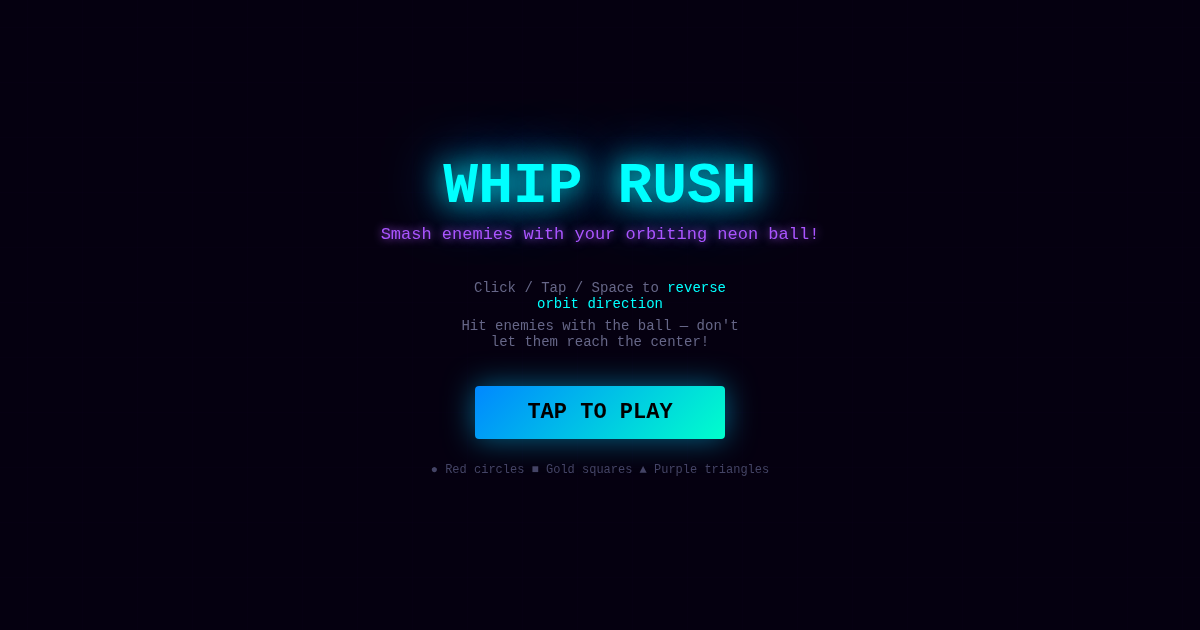
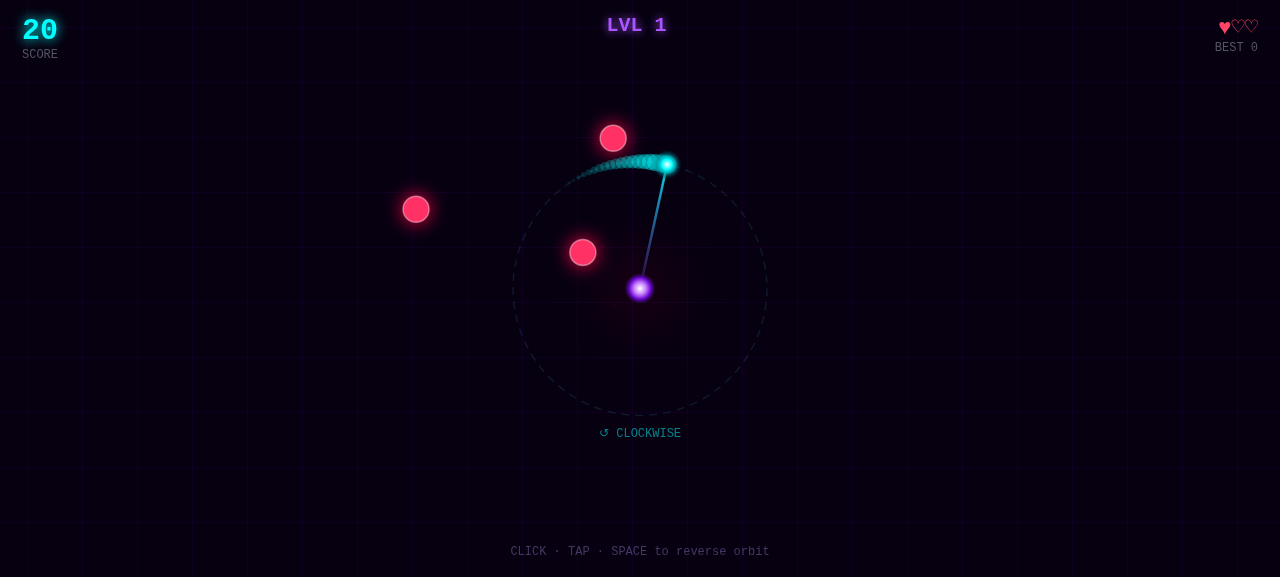
fix: repair Whip Rush unplayable bug and stabilise parallel tests
Whip Rush (2026-05-05): handleInput returned early with `if (!s) return`
when stateRef.current was null on the first click, so the game could
never be started.  Merged the null guard into the start/gameover branch
so any click on the initial screen correctly calls initState().

playwright.config.js: reduced CI workers 8→4 to prevent CDN rate-
limiting when 60+ games simultaneously load React/Babel from unpkg.com;
added navigationTimeout (60 s) and actionTimeout (15 s) so slow CDN
responses don't cause spurious failures under parallel load.

Also refreshed games/2026-05-05/preview.png with an in-game screenshot.

diff --git a/playwright.config.js b/playwright.config.js
@@ -17,8 +17,9 @@ export default defineConfig({
   // Retry on CI only
   retries: process.env.CI ? 2 : 0,
   
-  // Limit workers on CI for stability
-  workers: process.env.CI ? 8 : undefined,
+  // Limit workers on CI for stability — 4 workers prevents CDN rate-limiting
+  // when 60+ games simultaneously load React/Babel from unpkg.com
+  workers: process.env.CI ? 4 : undefined,
   
   // Reporter to use
   reporter: [
@@ -29,13 +30,17 @@ export default defineConfig({
   use: {
     // Base URL for tests
     baseURL: 'http://localhost:8080',
-    
+
+    // Give pages enough time to load CDN resources (React, Babel) even under load
+    navigationTimeout: 60000,
+    actionTimeout: 15000,
+
     // Collect trace when retrying the failed test
     trace: 'on-first-retry',
-    
+
     // Take screenshot on failure
     screenshot: 'only-on-failure',
-    
+
     // Video on failure
     video: 'retain-on-failure',
   },

diff --git a/games/2026-05-05/index.html b/games/2026-05-05/index.html
@@ -133,8 +133,7 @@
 
       const handleInput = useCallback(() => {
         const s = stateRef.current;
-        if (!s) return;
-        if (s.phase === 'start' || s.phase === 'gameover') {
+        if (!s || s.phase === 'start' || s.phase === 'gameover') {
           const canvas = canvasRef.current;
           if (!canvas) return;
           stateRef.current = initState(canvas);
